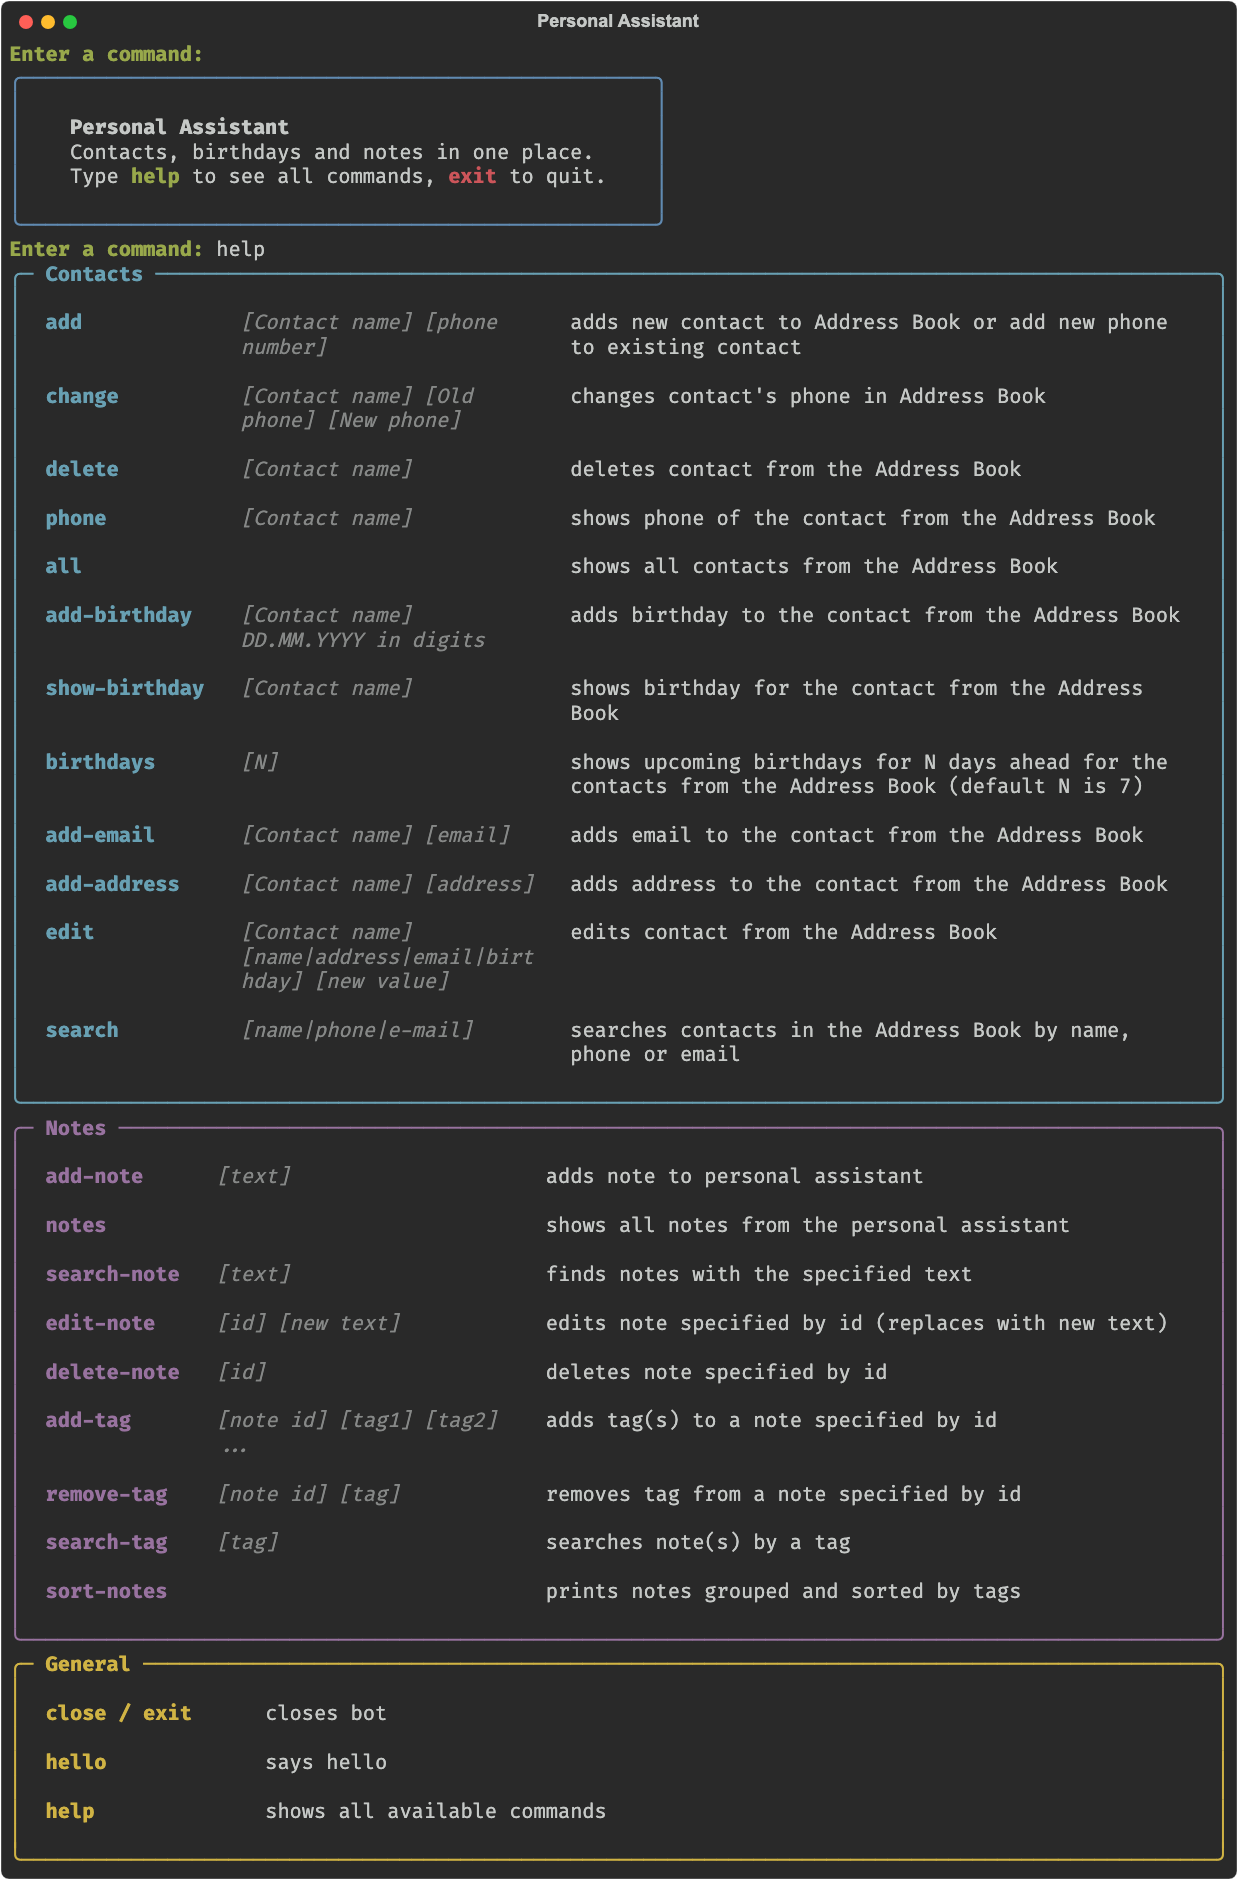
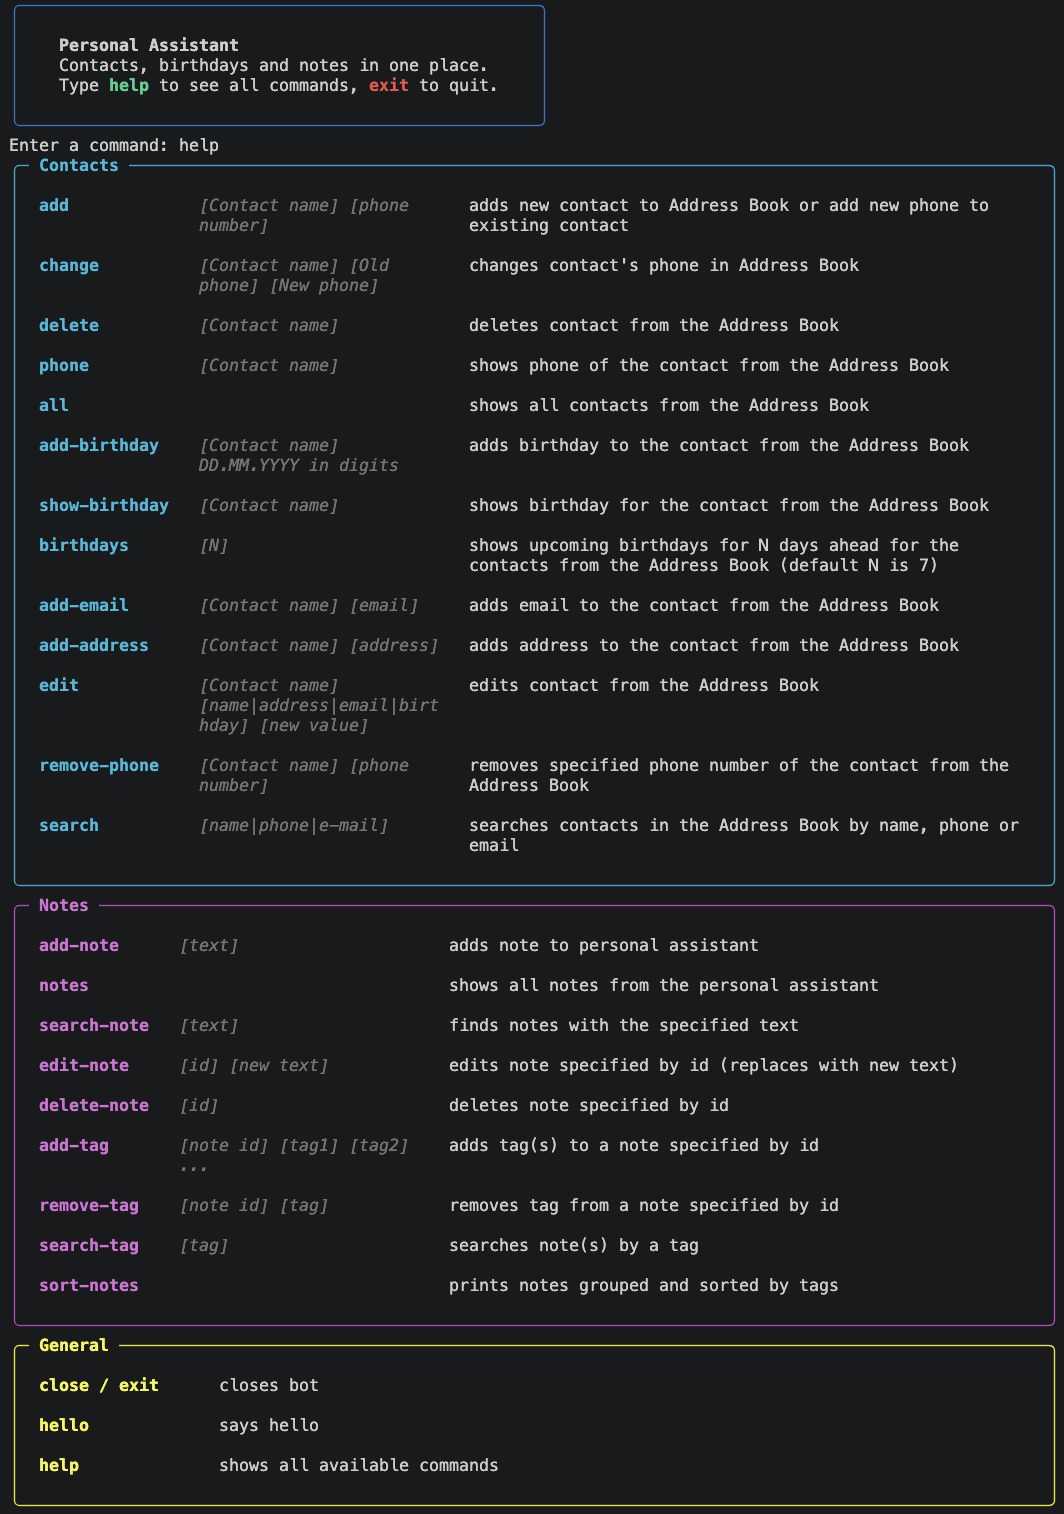
added welcome-help screenshot, added example usage to readme

Changed region(s): [[0.0, 0.0, 1.0, 1.0], [0.1861, 0.6209, 0.4032, 0.8382]]

diff --git a/README.md b/README.md
@@ -13,6 +13,22 @@ uv run python src/main.py
 
 Тести: `uv run pytest`. Лінтер: `uv run ruff check .`.
 
+## Приклад сеансу
+
+Після запуску помічника введіть:
+
+```text
+add Olena 0501234567
+search Olena
+add-note Підготувати звіт до п’ятниці
+notes
+add-tag 1 робота
+search-tag робота
+exit
+```
+
+`1` — ID першої нотатки в порожній книзі. Якщо у вашої нотатки інший ID, підставте його зі списку `notes`. Після наступного запуску контакт і нотатка залишаться доступними.
+
 ## Структура
 
 `src/main.py` запускає помічника. Моделі контактів і нотаток лежать у `src/address_book/` і `src/notebook/`, обробники й реєстр команд — у `src/handlers/` і `src/registry/`. За консоль відповідає `src/console/`, за збереження — `src/storage/`. Допоміжні функції лежать у `src/helpers/`, тести — у `tests/`.
